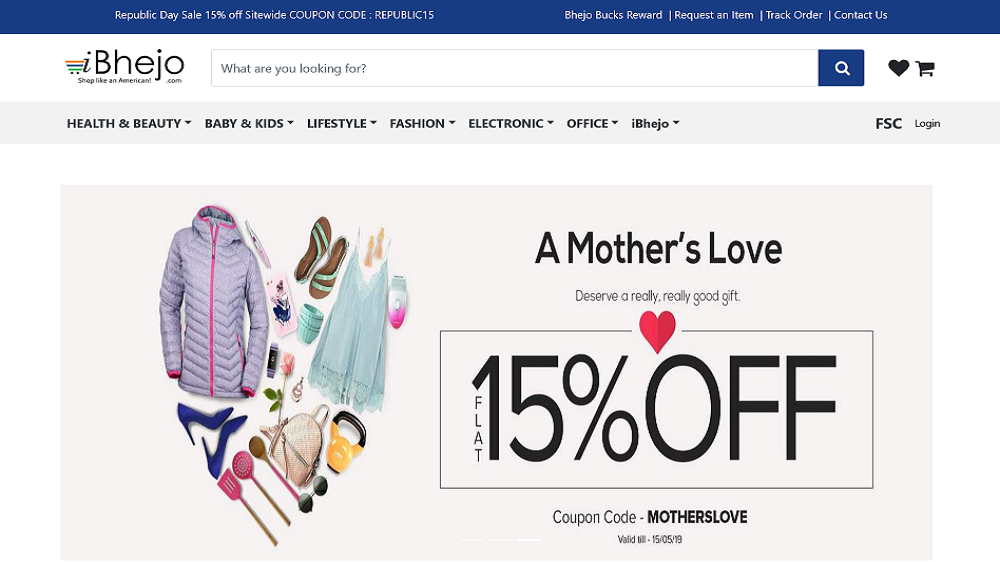
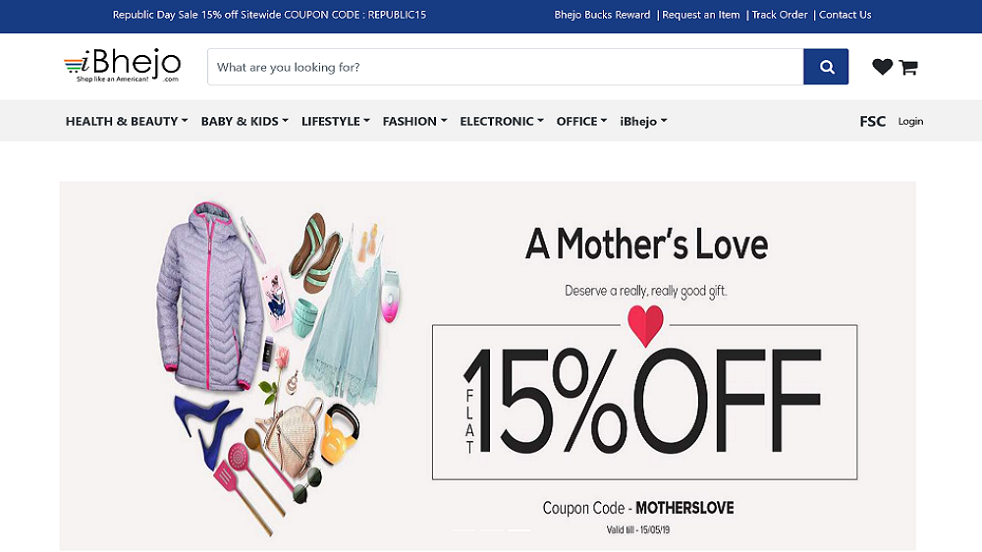
resize image and update URL

Changed region(s): [[0.7637, 0.0, 0.7943, 0.0308], [0.611, 0.0, 0.6415, 0.0308]]

diff --git a/index.html b/index.html
@@ -118,7 +118,7 @@
                             <p>Created - <span>13 May 2019</span></p>
                             <p>Technologies Used - <span>HTML, CSS and Bootstrap 3</span></p>
                             <p>Role - <span>Front-End</span></p>
-                            <p>View Online - <span><a href="#" target="_blank">https://ajinkya-chitale.github.io/ibhejo.github.io/index.html</a></span></p>
+                            <p>View Online - <span><a href="https://ajinkya-chitale.github.io/ibhejo.github.io/index.html" target="_blank">https://ajinkya-chitale.github.io/ibhejo.github.io/index.html</a></span></p>
                         </div>
                     </div>
                 </div>
